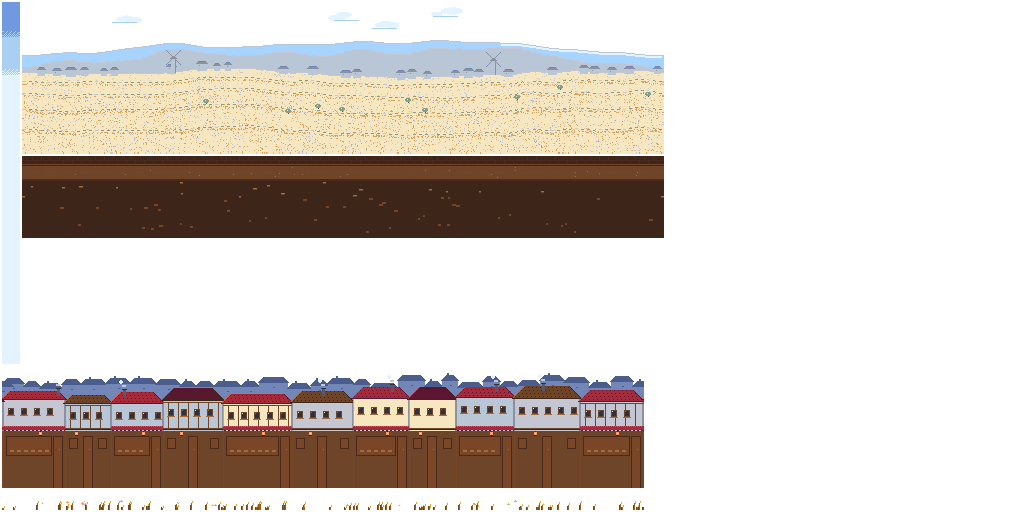
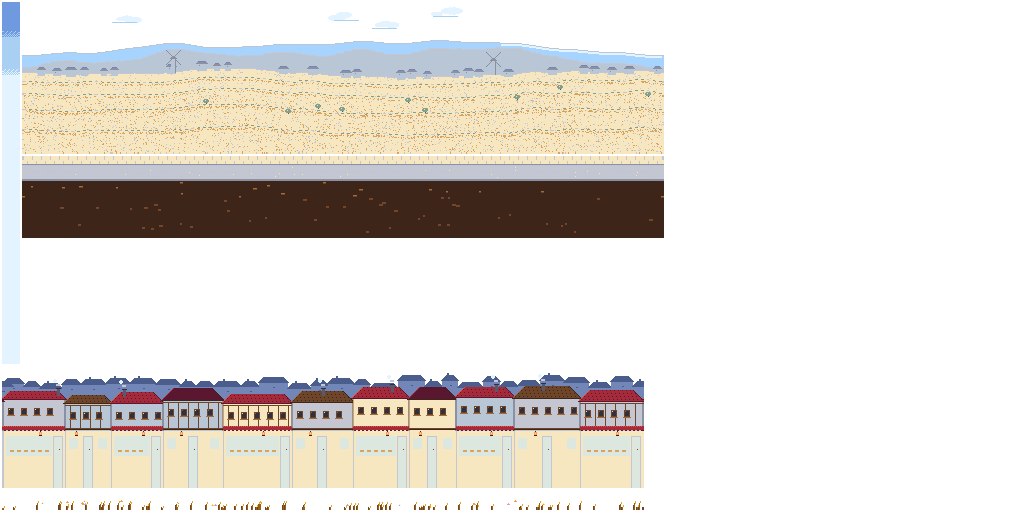
[Design] 09-art-world 2: 유닛 뒤 거리를 밝은 저채도로 바꿔 07 C4 최소 6.7→28.9, 성 테두리 12.6→28.9, 둥지 검사·투사체 분리 통과

Changed region(s): [[0.0, 0.8438, 0.6562, 0.9688], [0.0, 0.2812, 0.6562, 0.375]]

diff --git a/tools/art/biome.py b/tools/art/biome.py
@@ -672,31 +672,44 @@ def _v2_house(cv, rng, x0, w, wall_top, shop, roof_kind):
     else:
         cv.hline(x0, x0 + w - 1, SH - 3, c("O"))
         cv.hline(x0, x0 + w - 1, SH - 2, c("w"))
-    # street level in shadow: warm mid-dark (L* ~33-35) so the bread soldiers' mass AND every unit's dark outline
-    # separate from it (03 readability: outline vs background dL* >= 15 needs L* >= ~23; darker walls failed it)
-    cv.rect(x0, SH, w, H - SH, c("O"))
-    cv.vline(x0, SH, H - 1, c("H"))
+    # street level behind the units. STREET picks the colours (see STREET_LIGHT / STREET_SHADOW below _v2_house)
+    S = STREET
+    cv.rect(x0, SH, w, H - SH, c(S["wall"]))
+    cv.vline(x0, SH, H - 1, c(S["corner"]))
     if shop:
         sx, sw = x0 + 4, w - 18
-        cv.rect(sx - 1, SH + 5, sw + 2, 20, c("h"))                           # window frame
-        cv.rect(sx, SH + 6, sw, 18, c("H"))                                    # dim display window
+        cv.rect(sx - 1, SH + 5, sw + 2, 20, c(S["frame"]))                    # window frame
+        cv.rect(sx, SH + 6, sw, 18, c(S["glass"]))                             # display window
         for bx in range(sx + 3, sx + sw - 4, 7):
-            cv.ellipse(bx + 2, SH + 20, 2.4, 1.4, c("o"))                      # loaves in the half-light
+            cv.ellipse(bx + 2, SH + 20, 2.4, 1.4, c(S["loaf"]))                # loaves
         door_x = x0 + w - 11
     else:
         door_x = x0 + w // 2 - 4
         for wx in (x0 + 5, x0 + w - 12):
             if abs(wx - door_x) > 10:
-                cv.rect(wx - 1, SH + 7, 9, 11, c("h"))
-                cv.rect(wx, SH + 8, 7, 9, c("H"))
-    cv.rect(door_x - 1, SH + 5, 10, H - SH - 5, c("h"))
-    cv.rect(door_x, SH + 6, 8, H - SH - 6, c("H"))
-    cv.put(door_x + 5, SH + 18, c("o"))                                        # knob
+                cv.rect(wx - 1, SH + 7, 9, 11, c(S["frame"]))
+                cv.rect(wx, SH + 8, 7, 9, c(S["glass"]))
+    cv.rect(door_x - 1, SH + 5, 10, H - SH - 5, c(S["door_frame"]))
+    cv.rect(door_x, SH + 6, 8, H - SH - 6, c(S["door"]))
+    cv.put(door_x + 5, SH + 18, c(S["knob"]))                                  # knob
     lx = x0 + w // 2 + (6 if shop else -12)                                   # one small oven-warm lantern per front
     if abs(lx - (door_x + 4)) < 7:
         lx = door_x - 6
     cv.put(lx, SH, c("w"))
     cv.rect(lx - 1, SH + 1, 3, 3, c("e")); cv.put(lx, SH + 2, c("Z")); cv.hline(lx - 1, lx + 1, SH + 4, c("w"))
+
+
+# Street level (screen y 244-297, behind every unit) and street floor. 07 art_compare C4 measures each whole unit
+# (dark outline included, whole-unit L* 35-60) against what is behind it; every unit is >= 15 L* away only if the
+# street is L* >= 75 or <= 20, and <= 20 fails 03's outline rule (docs/art/world/EXTERNAL_RANGE.md section 3).
+# STREET_SHADOW = art-world 1 (92a1718, C4 WORSE); STREET_LIGHT / STREET_STONE = art-world 2 candidates.
+STREET_SHADOW = dict(wall="O", corner="H", frame="h", glass="H", loaf="o", door_frame="h", door="H", knob="o",
+                     pave="w", pave_joint="h", kerb="O", kerb2="w", lane="O", lane_edge="h", rut="H", dust="H", crumb="o")
+STREET_LIGHT = dict(wall="U", corner="x", frame="z", glass="z", loaf="T", door_frame="x", door="z", knob="O",
+                    pave="U", pave_joint="x", pave_line="U", kerb="X", kerb2="N", lane="x", lane_edge="X", rut="N", dust="N", crumb="U")
+STREET_STONE = dict(wall="x", corner="N", frame="N", glass="X", loaf="T", door_frame="X", door="N", knob="O",
+                    pave="N", pave_joint="x", kerb="X", kerb2="N", lane="x", lane_edge="X", rut="N", dust="N", crumb="z")
+STREET = STREET_LIGHT
 
 
 def v2_mid(meta, seed=222):
@@ -737,31 +750,32 @@ def v2_ground(meta, seed=233):
     W, H = PERIOD, 80
     cv = WrapCanvas(W, H)
     LANE = 15
+    S = STREET
     for x in range(W):
         for y in range(H):
             if y < 7:
-                k = "h" if (y == 3 or (x + (y // 4) * 5) % 9 == 0) else "w"    # pavement joints, low contrast
+                k = S.get("pave_line", S["pave_joint"]) if y == 3 else (S["pave_joint"] if (x + (y // 4) * 5) % 9 == 0 else S["pave"])
             elif y == 7:
-                k = "O"                                                            # kerb edge
+                k = S["kerb"]                                                      # kerb edge
             elif y == 8:
-                k = "w"
+                k = S["kerb2"]
             elif y < 22:
-                k = "O"                                                            # packed-earth lane
+                k = S["lane"]                                                      # packed-earth lane
             elif y < 24:
-                k = "h"
+                k = S["lane_edge"]
             else:
                 k = "w"
             cv.put(x, y, c(k))
     for x in range(W):                                                             # faint wheel ruts
         if (x // 3) % 6 != 0 and x % 2 == 0:
-            cv.put(x, 15, c("H"))
+            cv.put(x, 15, c(S["rut"]))
         if (x // 5) % 7 != 0 and x % 3 == 0:
-            cv.put(x, 19, c("H"))
+            cv.put(x, 19, c(S["rut"]))
     for _ in range(110):                                                           # flour dust and crumbs on the lane
         x, y = int(rng.integers(0, W)), int(rng.integers(10, 21))
-        cv.put(x, y, c("H"))
+        cv.put(x, y, c(S["dust"]))
         if rng.uniform() < 0.25:
-            cv.put(x + 1, y, c("o"))
+            cv.put(x + 1, y, c(S["crumb"]))
     for _ in range(60):                                                            # soil stones (mostly under the HUD)
         x, y, w = int(rng.integers(0, W)), int(rng.integers(26, 76)), int(rng.integers(2, 5))
         for i in range(w):

diff --git a/tools/art/world/street_ab.py b/tools/art/world/street_ab.py
@@ -1,0 +1,47 @@
+"""09-art-world: street colour A/B (biome.STREET_*) on world_preview composites.
+python tools/art/world/street_ab.py STREET_SHADOW,STREET_LIGHT [out_dir]
+C4 = 07 art_compare formula (whole unit incl. outline vs background under it), every walk frame at x 200/300/420."""
+import sys, os, json
+HERE = os.path.dirname(os.path.abspath(__file__)); sys.path.insert(0, HERE); sys.path.insert(0, os.path.dirname(HERE))
+import numpy as np, contextlib, io
+import biome, bases, world_metrics as wm, world_preview as wp
+from cvd_check import lab
+R = wm.load_root(wm.ROOT); gy = int(R["gy"])
+out = sys.argv[2] if len(sys.argv) > 2 else os.path.join(os.environ.get("TEMP", "."), "a09", "street_ab"); os.makedirs(out, exist_ok=True)
+SETS = [(1, s) for s in wp.ALLY] + [(-1, s) for s in wp.ENEMY]
+res = {}
+for name in sys.argv[1].split(","):
+    biome.STREET = getattr(biome, name)
+    with contextlib.redirect_stdout(io.StringIO()):
+        rep = wp.run(os.path.join(out, name), "new", 320.0, "intact")
+    lay = wp.layers_from("new")
+    bg, _ = wm.compose_bg(R, 320.0, 640, 360, front=False, layers=lay)
+    kp = wp.base_rgba("new", "player", "intact"); img = bg.copy(); wm._alpha_over(img, kp, 12, gy - 127)
+    c4 = {}
+    for side, s in SETS:
+        fr, _ = wm.anim_frames(R, s, "walk")
+        v = []
+        for fi in range(len(fr)):
+            px, f = fr[fi]
+            for x in (200, 300, 420):                       # open street at three places
+                a, ax, ay = wm.place(px, f["pivot"], x, gy, side < 0)
+                m = wm.stamp_mask(img.shape[:2], a, ax, ay); comp = img.copy(); wm._alpha_over(comp, a, ax, ay)
+                v.append(abs(lab(comp)[m][:, 0].mean() - lab(img)[m][:, 0].mean()))
+        c4[s] = round(float(min(v)), 1)
+    front = {}
+    for s, x in (("hero_captain", 60), ("melee_basic", 70), ("worker", 52), ("ranged_basic", 80), ("tank", 44)):
+        fr, _ = wm.anim_frames(R, s, "walk"); px, f = fr[0]
+        a, ax, ay = wm.place(px, f["pivot"], x, gy, False)
+        m = wm.stamp_mask(img.shape[:2], a, ax, ay); comp = img.copy(); wm._alpha_over(comp, a, ax, ay)
+        front[s] = round(float(abs(lab(comp)[m][:, 0].mean() - lab(img)[m][:, 0].mean())), 1)
+    b = rep["bands"]
+    res[name] = {"c4_min": min(c4.values()), "c4_lt15": [s for s, v in c4.items() if v < 15], "c4_median": float(np.median(list(c4.values()))),
+                 "c4": c4, "keep_front_c4_min": min(front.values()), "keep_front": front,
+                 "keep_ring_dE": rep["bases"]["player"]["ring_dE"], "nest_ring_dE": rep["bases"]["enemy"]["ring_dE"],
+                 "ring_ally_min": (rep["ally_min_ring_dL"], rep["ally_min_ring_dE"]), "ring_enemy_min": (rep["enemy_min_ring_dL"], rep["enemy_min_ring_dE"]),
+                 "head_band": b["head_band"], "lane": b["lane"], "far": b["far"]}
+    r = res[name]
+    print(name, "| C4 min", r["c4_min"], "median", round(r["c4_median"], 1), "lt15", r["c4_lt15"], "| keep-front C4 min", r["keep_front_c4_min"],
+          "| keep ring dE", r["keep_ring_dE"], "nest ring dE", r["nest_ring_dE"], "| P1 ring ally", r["ring_ally_min"], "enemy", r["ring_enemy_min"])
+    print("   head", b["head_band"]); print("   lane", b["lane"])
+json.dump(res, open(os.path.join(out, "street_ab.json"), "w"), indent=1, default=float)

diff --git a/coordination/handoffs/09-art-world.md b/coordination/handoffs/09-art-world.md
@@ -19,6 +19,10 @@ Status: art-world 1 COMMITTED (92a1718, accepted). 07 art_compare result in (VOI
 docs/art/world/EXTERNAL_RANGE.md: 6 Play screenshots (Battle Cats, Grow Castle ×2, Cat War 2 ×2, Stick War: Legacy), access 2026-11-01 08:06 KST, rectangles and URLs in external_range.json, tool tools/art/world/ext_metrics.py; images only in %TEMP%\a09\ext (never commit). Decisions: P1/P2 → info; governing line = 07 C4 ≤ 10 % and C4m ≥ baseline + 03 sil ≥ 60; new P8 street front behind units L* 75–80, C* ≤ 20; P3 far kept as a style choice; P4 25 kept as target.
 
 ## Next
+0. **Done 09:25 (art-world 2, this commit): light street** — numbers in docs/art/world/EXTERNAL_RANGE.md §5. Clean-copy build of HEAD 85d22bd + tools/art/biome.py in %TEMP%\a09\commit_85d22bd. Open from it: units in front of the keep's dark lower course (C4 formula 0.6–3.8; plinth variants in %TEMP%\a09\plinth_c4.py all fail), bright stress variant boss_warlord sil 57.2 (03), no real capture of this commit yet (next: one 07 `art_compare.ps1 -Sha <this> -NoAnim` via the detached queue, unless one is queued).
+   - Superseded notes from 08:45–08:55 (kept for the record): first LIGHT version with x/N doors failed proj_sep 30–45; STREET_STONE also failed proj_sep (30–45) and was dropped. tools/art/biome.py now has `STREET_SHADOW` (92a1718), `STREET_LIGHT` (cream U wall, x/N details, U pavement, x lane) and `STREET_STONE` (x wall, N pavement), `STREET = STREET_LIGHT`; `_v2_house` street level and `v2_ground` read `STREET` (no rng change). Composite A/B (%TEMP%\a09\street_ab.py, 07 C4 formula over every walk frame at x 200/300/420): SHADOW C4 min 6.7, median 15.3, 6 enemy sets < 15, keep ring dE 12.6; **LIGHT C4 min 26.0, median 41.5, none < 15, keep ring dE 29.0, nest 44.2, head band C* 14.6, C* ≥ 35 1.4 %, edges 15.5 %**; STONE C4 min 18.0, median 34.5, keep 29.8, nest 42.7, edges 8.5 %. Open problem: units in front of the keep's dark crust lower course read C4 min 1.6 in every variant (KEEP_PLINTH O is L* 33 = unit L*); try KEEP_PLINTH dark wood `w` (L* 17) or pale stone `x` with the C4 formula, then the 03 tools on a clean-copy build.
+   - 08:55 clean-copy build of HEAD 85d22bd + biome.py (STREET_LIGHT) in %TEMP%\a09\commit_85d22bd: build/validate --determinism PASS, contract_diff 0, asset_budget PASS (8.75 MiB), cvd unchanged, **nest_check PASS (dL* 34.9–40.4, protan 33.2–37.9)**. Shared tree already holds the LIGHT biome_meadow page/json/preview + manifest (disk_bytes only) — NOT committed. 03 readability A/B (same tool, HEAD build in %TEMP%\a09\head_85d22bd): meadow sil 74.5/70.5/65.5 → 75.0/70.0/75.0; dark variant 57.3/48.1/49.1 → 95.1/93.1/90.4 (now PASS); bright variant 100/96.8/87.5 → 70.9/**59.5**/70.9; **proj_sep meadow 95/95/100 and 72.7/95/100 → 30/30/42 and 72.7/30/40.8 (arrow, spit vanish on the light wall: FAIL)**. crowd_fail is identical in both (not background). Keep-front C4 (all walk frames, x 30–96): crust O 0.6, dark wood w 0.4, pale stone x 6.6 (keep ring 24.3), cream U 7.4 (21.6): no plinth fixes it; units are in front of the keep only for the first seconds.
+   - Next: test STREET_STONE (L* 75) for proj_sep; else request 03 dark rims on arrow/spit; if neither, revert the shared-tree page (`git checkout -- assets/atlases/biome_meadow.* docs/art/previews/atlas_biome_meadow.png assets/manifest.json`).
 1. **Light street (P8)**, composites only (Python): in biome.py `_v2_house` rows SH=64 and below (screen y 244+), swap the shadow wall `O` and its doors/windows for a light low-chroma plaster/stone front (target L* 75–80, C* ≤ 20, edges ≤ 15 %), lane/pavement one step darker but ≥ 60 if possible. Search with %TEMP%\a09\band_search.py but score with 07's C4 formula (whole unit incl. outline vs bg under it, tools/qa/art_metrics.py) over all walk frames, plus 03 readability sil ≥ 60. Then check keep ring (dark lower course vs light street, target dE ≥ 25), units in front of the keep (C4 formula), nest_check dL* ≥ 25 / protan ≥ 20, e_brute. Table of 2–3 street values incl. P3 edge/C* and e_brute; pick by table.
 2. Clean-copy build (procedure in WORLD_AUDIT §6), validate --determinism, contract_diff 0, asset_budget_check, 03 tools; publish; ls-remote.
 3. Only after that: one detached capture via `coordination/heavy_run_detached.ps1` (or 07 `art_compare.ps1 -Sha <new> -NoAnim`), unless a compare for that SHA is already queued.

diff --git a/docs/art/world/EXTERNAL_RANGE.md b/docs/art/world/EXTERNAL_RANGE.md
@@ -38,3 +38,18 @@ Tool: `python tools/art/world/ext_metrics.py docs/art/world/external_range.json 
 
 ## 4. Limits
 Six marketing screenshots from four games, one frame each; captions, frames and resizing are in the images. The unit stand-in counts props. No player saw any of this.
+
+## 5. Art-world 2: light street (2026-11-01 09:25 KST, composites + 03 tools, no new GPU capture yet)
+tools/art/biome.py: `STREET = STREET_LIGHT` (cream U front, z windows/doors without dark frames, U pavement without the joint line, pale stone x lane). `STREET_SHADOW` (= 92a1718, verified identical by the same A/B) stays in the file. Evidence: docs/art/world/evidence/world2/ (street_ab.json from `tools/art/world/street_ab.py`, two composites, 03 readability output for HEAD 85d22bd and for this change).
+| measure | line | 92a1718 shadow street | light street |
+|---|---|---|---|
+| C4 formula, every walk frame of 12 sets at 3 places: min / median dL* | ≥ 15 for ≥ 90 % | 6.7 / 15.3, 6 enemy sets < 15 | **28.9 / 42.4, none < 15** |
+| band behind heads (y 255–285): L* / C* / % C* ≥ 35 / edges | P3: ≤ 15 % / ≤ 15 % | 29.4 / 26.5 / 1.4 % / 13.6 % | 88.8 / 14.5 / 1.4 % / 12.9 % |
+| keep ring dE (P4 ≥ 25) / nest ring dE | ≥ 25 | 12.6 / 36.7 | **28.9** / 44.8 |
+| 03 nest_check dL* / protan dE (≥ 25 / ≥ 20) | | 17.7–19.0 / 16.8–17.9 | **35.5–41.3 / 33.9–38.9** |
+| 03 readability sil_min meadow r01/r05/r10 | ≥ 60 | 74.5 / 70.5 / 65.5 | 70.9 / 60.8 / 70.9 |
+| sil_min dark variant / bright variant | ≥ 60 | **57.3 / 48.1 / 49.1** / 100 / 96.8 / 87.5 | 95.1 / 94.0 / 91.6 / 70.9 / **57.2** (boss_warlord, r05) / 70.9 |
+| proj_sep meadow / bright (≥ 60) | | 95–100, 72.7–100 / bright arrow **45** | 72.7–80 / 72.7–80 (all PASS) |
+| P1 interior ring (now info) ally / enemy min dL* | info | 28.1 / 11.2 | 11.5 / 18.1 |
+Also: validate --determinism PASS, contract_diff 0 changes, 08 asset_budget_check PASS (worst battle 8.75 MiB), cvd_check unchanged. A first light version with x/N doors and frames failed proj_sep (30–45: the 03 bread-roll arrow, T L* 70.7, sat on L* 80 details); lightening the details fixed it.
+Still open: units in front of the keep's dark lower course (C4 formula 0.6–3.8 at x 30–96; no lower-course colour tried fixes it, they pass there only in the first seconds of a round); bright stress variant boss_warlord 57.2; 07's real capture of this commit not run yet.

diff --git a/coordination/status/09-art-world.md b/coordination/status/09-art-world.md
@@ -1,9 +1,9 @@
 # 09-art-world status
 Updated: 2026-11-01 ~08:30 KST
 Session: sess_6ce8ebb1-4e45-454d-a561-e0bad09a8be5 · claude-opus-5.5 / trust-all (formerly 09-research-product, closed eb8d5c4)
-Status: art-world 1 = 92a1718 (accepted by Codex). Now on Codex's follow-up: (1) external validation DONE in this commit (docs/art/world/EXTERNAL_RANGE.md); 07 art_compare 92a1718 result accepted as given (VOID run, C4/C4m WORSE on the street = my top fix); (2)–(5) open.
+Status: art-world 1 = 92a1718 (accepted). External validation f0c1879. Art-world 2 (light street: C4 min 6.7 → 28.9, keep ring 12.6 → 28.9, nest_check PASS, proj_sep PASS) committed with this update; 07 real capture of it not run yet.
 READ: user 01:0x KST "그래픽이 너무 별로야"; Codex "[09 다음 작업: 남은 FAIL 수정과 통과 기준의 외부 검증]"; HEAVY_RUN.md (detached runs only). Decisions unchanged: Q1 theme A, Q2 on hold (no ad/pay/shop UI), Q3/Q4 decided, Q5 unanswered (D28 is a default).
 Done:
 - External range: 6 Play screenshots of 4 landscape lane-defence games, same tool on our before/after frames (tools/art/world/ext_metrics.py, external_range.json/_out.json; images not committed). Decisions: P1/P2 become info only (they excluded the dark outline and passed while 07 C4 got worse); new governing line = 07 C4/C4m + 03 sil; street front behind units goes back to light (L* 75–80) with art-world 1's low chroma; P3 far line kept as a style choice (stricter than 4 of 5 external far layers); P4 25 kept as our target, not an external norm.
 - 07 art_compare 92a1718 (-NoAnim, ko_1x): VOID (G2 state differs in r01_t10, r08_peak, r10_boss). BETTER: C3, C5, W1, W3, W3m. WORSE on state-equal scenes and caused by my street: C4 (11.1 → 66.7 %, 18.2 → 54.5 %) and C4m (25.6 → 9.8, 24.7 → 14.0).
-Open: light street redraw (fixes C4 and should lift keep ring and nest edge together), e_brute (03), W8-1 sky opaque request (02/03), stress variants (03). No human player test, no phone check.
+Open: units in front of the keep's dark lower course (C4 0.6–3.8), bright stress variant boss_warlord sil 57.2 (03), 07 art_compare of the new commit, W8-1 sky opaque request (02/03). No human player test, no phone check.
